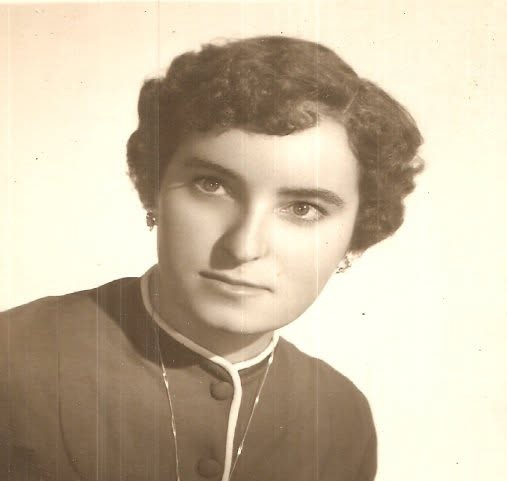
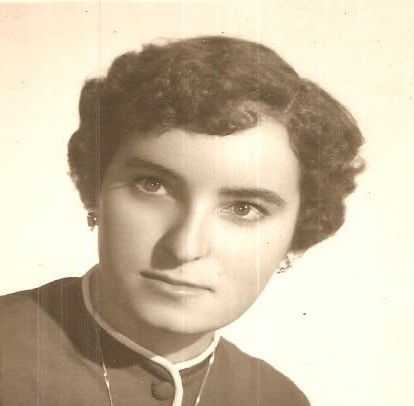
23-oct-2026

diff --git a/index.html b/index.html
@@ -50,11 +50,11 @@
     <div class="arbol">
       <ul class="raiz">
         <li>
-          <span class="persona persona-raiz"><img class="foto foto-raiz" src="img/abuelos.jpg" alt="Foto de los abuelos"><span class="nombre">Abuelo y Abuela</span></span>
+          <span class="persona persona-raiz"><img class="foto foto-raiz" src="img/abuelos.jpg" alt="Foto de los abuelos"><span class="nombre">Guadalupe y José</span></span>
           <ul class="ramas">
 
             <li class="rama">
-              <span class="persona"><span class="foto foto-vacia" aria-hidden="true">＋</span><span class="nombre">José</span></span>
+              <span class="persona"><img class="foto" src="img/Papa.jpg" alt="Tio Eladio"><span class="nombre">José</span></span>
               <ul class="hijos">
                 <li><span class="persona"><span class="foto foto-vacia" aria-hidden="true">＋</span><span class="nombre"><a href="Marife/marife.html">Marife</a></span></span></li>
                 <li><span class="persona"><span class="foto foto-vacia" aria-hidden="true">＋</span><span class="nombre"><a href="JR/jr.html">J.Ramón</a></span></span></li>
@@ -63,7 +63,7 @@
             </li>
 
             <li class="rama">
-              <span class="persona"><span class="foto foto-vacia" aria-hidden="true">＋</span><span class="nombre">Luis</span></span>
+              <span class="persona"><img class="foto" src="img/tioLuis.jpg" alt="Tio Eladio"><span class="nombre">Luis</span></span>
               <ul class="hijos">
                 <li><span class="persona"><span class="foto foto-vacia" aria-hidden="true">＋</span><span class="nombre">Luis</span></span></li>
                 <li><span class="persona"><span class="foto foto-vacia" aria-hidden="true">＋</span><span class="nombre">Freddy</span></span></li>
@@ -156,12 +156,65 @@
         <footer>— J.Ramón</footer>
       </blockquote>
     </div>
+
+  <div class="fotos-primos">
+    <h3>Veranos en la playa</h3>
+    <p class="ayuda">Desliza para ver más. Toca una foto para ampliarla.</p>
+    <div class="carrusel">
+      <button class="carrusel-btn prev" type="button" aria-label="Fotos anteriores">‹</button>
+      <div class="carrusel-pista" tabindex="0" role="region" aria-label="Veranos en la playa">
+
+      <figure class="diapo">
+        <button class="diapo-abrir" type="button" aria-label="Ampliar foto"><img src="img/primos/playa1.jpg" alt="Primos en la playa" loading="lazy"></button>
+        <figcaption>Un día de playa</figcaption>
+      </figure>
+      <figure class="diapo">
+        <button class="diapo-abrir" type="button" aria-label="Ampliar foto"><img src="img/primos/playa2.jpg" alt="Primos jugando en la arena" loading="lazy"></button>
+        <figcaption>Jugando en la arena</figcaption>
+      </figure>
+      <figure class="diapo">
+        <button class="diapo-abrir" type="button" aria-label="Ampliar foto"><img src="img/primos/playa3.jpg" alt="Primos al atardecer" loading="lazy"></button>
+        <figcaption>Atardecer</figcaption>
+      </figure>
+      <!-- copia aquí más bloques <figure class="diapo"> -->
+    </div>
+    <button class="carrusel-btn next" type="button" aria-label="Fotos siguientes">›</button>
+  </div>
+</div>
+
+<div class="fotos-primos">
+  <h3>Fiestas y reuniones</h3>
+  <p class="ayuda">Desliza para ver más. Toca una foto para ampliarla.</p>
+  <div class="carrusel">
+    <button class="carrusel-btn prev" type="button" aria-label="Fotos anteriores">‹</button>
+    <div class="carrusel-pista" tabindex="0" role="region" aria-label="Fiestas y reuniones">
+
+      <figure class="diapo">
+        <button class="diapo-abrir" type="button" aria-label="Ampliar foto"><img src="img/primos/fiesta1.jpg" alt="Fiesta familiar" loading="lazy"></button>
+        <figcaption>Fiesta en La Calera</figcaption>
+      </figure>
+      <!-- más fotos aquí -->
+
+    </div>
+    <button class="carrusel-btn next" type="button" aria-label="Fotos siguientes">›</button>
+  </div>
+</div>  
   </section>
 </main>
 
 <footer class="pie">
   <p>Hecho con amor por la familia 💕</p>
 </footer>
+<dialog class="visor" aria-label="Foto ampliada">
+  <button class="visor-cerrar" type="button" aria-label="Cerrar">✕</button>
+  <button class="visor-btn prev" type="button" aria-label="Foto anterior">‹</button>
+  <figure>
+    <img src="" alt="">
+    <figcaption></figcaption>
+  </figure>
+  <button class="visor-btn next" type="button" aria-label="Foto siguiente">›</button>
+</dialog>
 
+<script src="js/carrusel.js"></script>
 </body>
 </html>

diff --git a/css/carrusel.css b/css/carrusel.css
@@ -1,0 +1,81 @@
+/* =========================================================
+   Carrusel de fotos de los primos + visor para ampliar
+   Va en un archivo aparte: no toca tu estilo.css
+   ========================================================= */
+.fotos-primos { margin: 1.5rem auto 2.75rem; }
+.fotos-primos h3 { font-size: 1.4rem; margin-bottom: .25rem; color: var(--noche); }
+.fotos-primos .ayuda { font-size: .95rem; opacity: .8; margin-bottom: .5rem; }
+
+.carrusel { position: relative; }
+
+.carrusel-pista {
+  display: flex;
+  gap: 1rem;
+  overflow-x: auto;
+  scroll-snap-type: x mandatory;
+  scroll-behavior: smooth;
+  padding: 1rem .5rem 1.25rem;
+  scrollbar-width: thin;
+  scrollbar-color: var(--tierra) transparent;
+  text-align: left;
+}
+.carrusel-pista:focus-visible { outline: 3px solid var(--noche); outline-offset: 2px; border-radius: 8px; }
+
+.diapo {
+  flex: 0 0 min(78%, 280px);
+  scroll-snap-align: center;
+  margin: 0;
+  background: var(--crema);
+  padding: .55rem .55rem .3rem;
+  border-radius: 6px;
+  box-shadow: 0 8px 18px rgba(90, 50, 30, .25);
+}
+.diapo:nth-child(odd)  { transform: rotate(-1deg); }
+.diapo:nth-child(even) { transform: rotate(1deg); }
+
+/* el botón que envuelve la foto: sin el aspecto de los botones del resto de la página */
+.diapo-abrir { all: unset; display: block; cursor: zoom-in; border-radius: 3px; }
+.diapo-abrir:focus-visible { outline: 3px solid var(--noche); outline-offset: 3px; }
+.diapo img { display: block; width: 100%; aspect-ratio: 4 / 5; object-fit: cover; border-radius: 3px; }
+.diapo figcaption { font-family: "Fredoka", sans-serif; font-size: 1rem; padding: .45rem .2rem .3rem; line-height: 1.25; }
+
+/* flechas del carrusel */
+.carrusel-btn, .visor-btn, .visor-cerrar {
+  all: unset;
+  box-sizing: border-box;
+  display: flex; align-items: center; justify-content: center;
+  width: 44px; height: 44px;
+  border-radius: 50%;
+  background: var(--noche);
+  color: #FAF2E4;
+  font-size: 1.7rem; line-height: 1;
+  cursor: pointer;
+  box-shadow: 0 3px 10px rgba(27, 45, 69, .4);
+}
+.carrusel-btn:hover, .visor-btn:hover, .visor-cerrar:hover { background: var(--mar); }
+.carrusel-btn:focus-visible, .visor-btn:focus-visible, .visor-cerrar:focus-visible { outline: 3px solid var(--oro); outline-offset: 2px; }
+.carrusel-btn { position: absolute; top: 45%; transform: translateY(-50%); z-index: 2; }
+.carrusel-btn.prev { left: -.4rem; }
+.carrusel-btn.next { right: -.4rem; }
+
+/* visor a pantalla completa */
+.visor {
+  border: 0; padding: 0; margin: 0;
+  width: 100%; max-width: 100vw; height: 100%; max-height: 100vh;
+  background: transparent;
+}
+.visor::backdrop { background: rgba(27, 45, 69, .93); }
+.visor[open] { display: flex; align-items: center; justify-content: center; gap: .5rem; padding: .75rem; }
+.visor figure { margin: 0; max-width: min(88vw, 900px); text-align: center; color: #FAF2E4; }
+.visor img { display: block; max-width: 100%; max-height: 78vh; margin: 0 auto; border: 6px solid var(--crema); border-radius: 6px; box-shadow: 0 10px 30px rgba(0, 0, 0, .45); }
+.visor figcaption { font-family: "Fredoka", sans-serif; font-size: 1.2rem; margin-top: .75rem; }
+.visor-cerrar { position: fixed; top: .75rem; right: .75rem; z-index: 3; font-size: 1.3rem; }
+.visor-btn { flex: none; }
+
+/* en móvil, las flechas del visor van abajo para dejar sitio a la foto */
+@media (max-width: 600px) {
+  .visor[open] { flex-wrap: wrap; align-content: center; }
+  .visor figure { order: 1; flex: 0 0 100%; max-width: 100%; }
+  .visor-btn.prev { order: 2; margin-top: .75rem; }
+  .visor-btn.next { order: 3; margin-top: .75rem; }
+}

diff --git a/js/carrusel.js b/js/carrusel.js
@@ -1,0 +1,52 @@
+/* Carrusel de fotos + visor para ampliar. Sin librerías. */
+(function () {
+  // ---- Flechas del carrusel ----
+  document.querySelectorAll('.carrusel').forEach(function (car) {
+    var pista = car.querySelector('.carrusel-pista');
+    var mover = function (dir) {
+      pista.scrollBy({ left: dir * Math.max(pista.clientWidth * 0.8, 200), behavior: 'smooth' });
+    };
+    car.querySelector('.carrusel-btn.prev').addEventListener('click', function () { mover(-1); });
+    car.querySelector('.carrusel-btn.next').addEventListener('click', function () { mover(1); });
+  });
+
+  // ---- Visor (foto ampliada) ----
+  var visor = document.querySelector('.visor');
+  if (!visor || typeof visor.showModal !== 'function') return;
+
+  var fotos = [];   // fotos del carrusel que se está viendo
+  var img = visor.querySelector('img');
+  var cap = visor.querySelector('figcaption');
+  var actual = 0;
+
+  function mostrar(i) {
+    actual = (i + fotos.length) % fotos.length;
+    var f = fotos[actual];
+    img.src = f.getAttribute('data-grande') || f.src;   // opcional: versión grande de la foto
+    img.alt = f.alt;
+    var c = f.closest('.diapo').querySelector('figcaption');
+    cap.textContent = c ? c.textContent : '';
+  }
+
+  document.querySelectorAll('.diapo-abrir').forEach(function (btn) {
+    btn.addEventListener('click', function () {
+      var car = btn.closest('.carrusel');
+      fotos = Array.prototype.slice.call(car.querySelectorAll('.diapo img'));
+      mostrar(fotos.indexOf(btn.querySelector('img')));
+      visor.showModal();
+    });
+  });
+
+  visor.querySelector('.visor-btn.prev').addEventListener('click', function () { mostrar(actual - 1); });
+  visor.querySelector('.visor-btn.next').addEventListener('click', function () { mostrar(actual + 1); });
+  visor.querySelector('.visor-cerrar').addEventListener('click', function () { visor.close(); });
+
+  // clic en el fondo oscuro = cerrar
+  visor.addEventListener('click', function (e) { if (e.target === visor) visor.close(); });
+
+  // flechas del teclado (Esc cierra solo)
+  visor.addEventListener('keydown', function (e) {
+    if (e.key === 'ArrowLeft') mostrar(actual - 1);
+    if (e.key === 'ArrowRight') mostrar(actual + 1);
+  });
+})();
